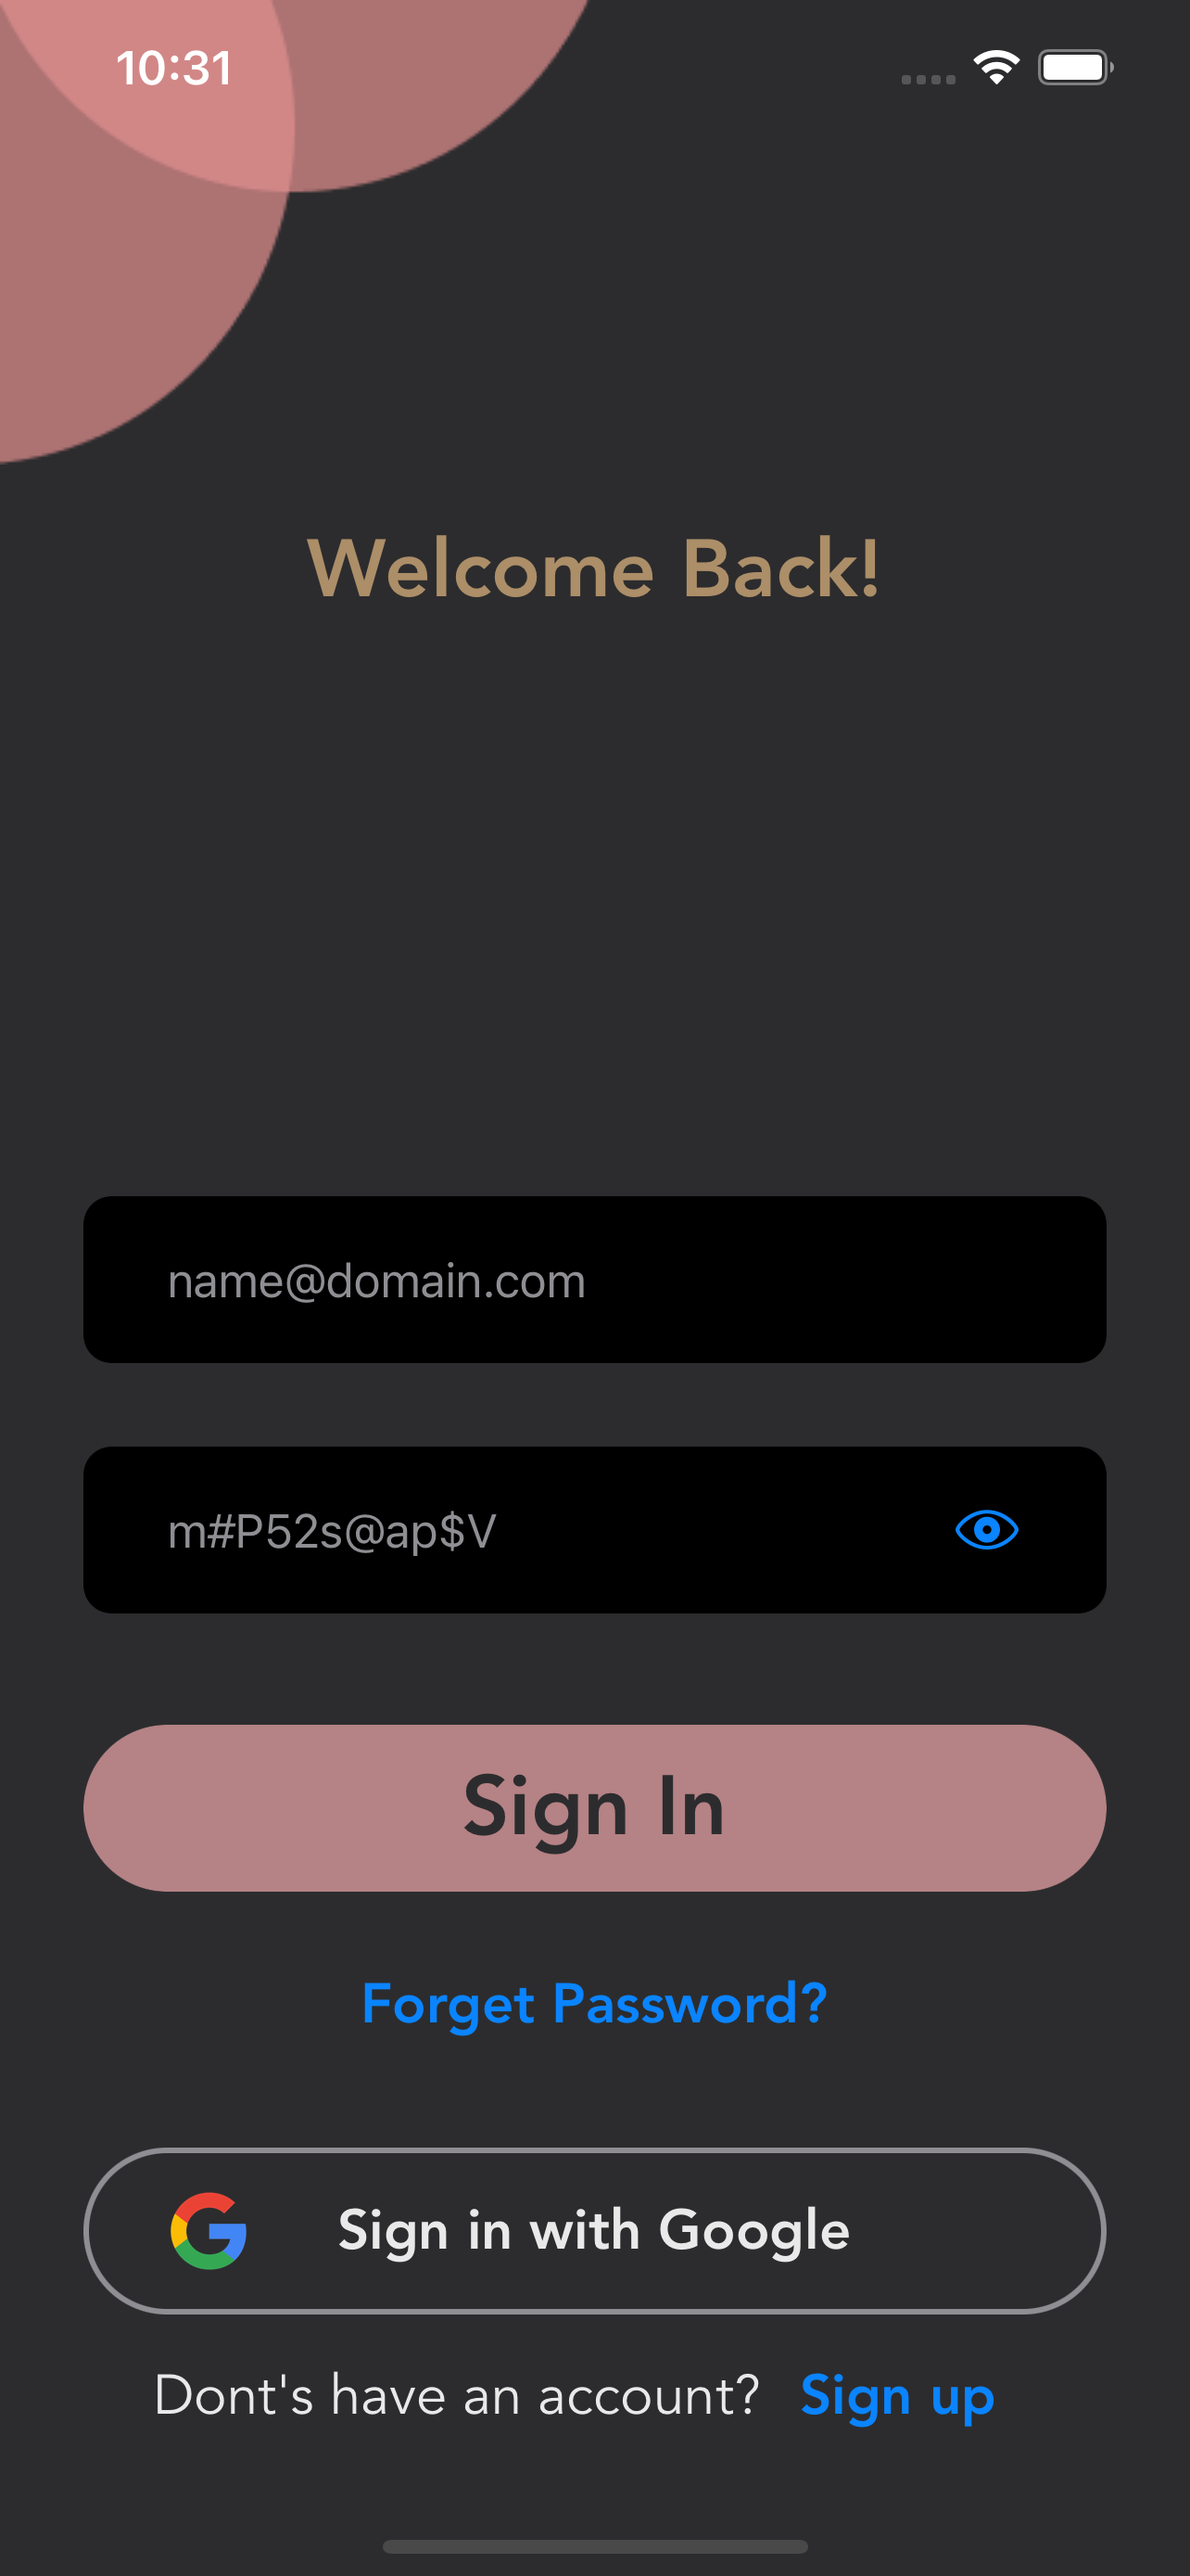
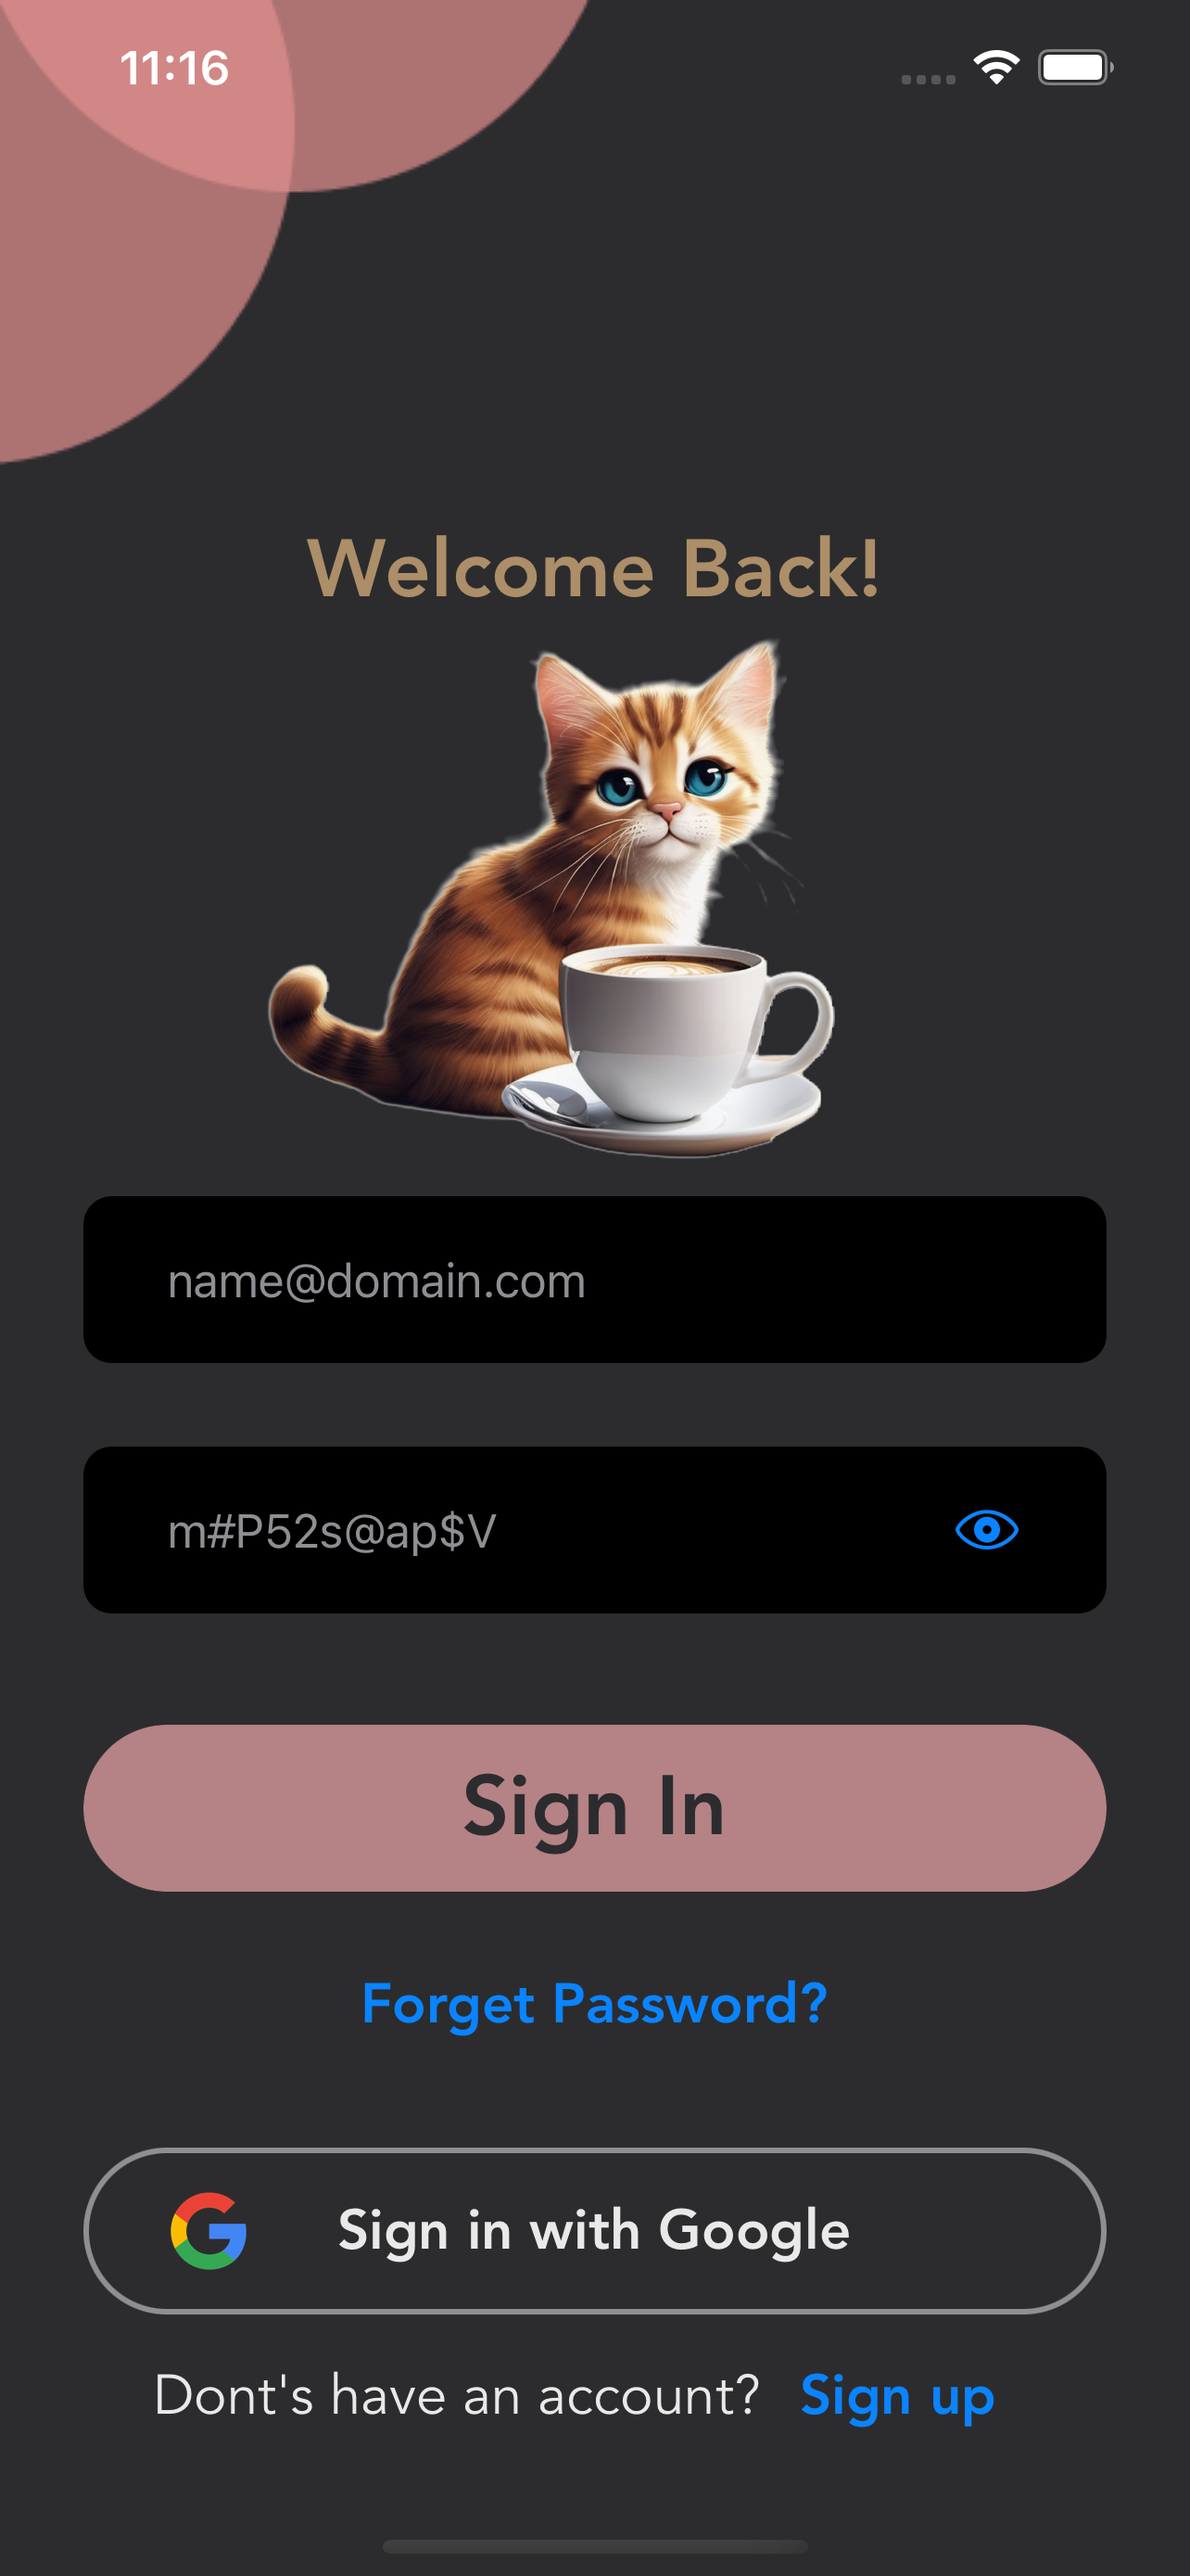
add cat to screen and update screen-shots

Changed region(s): [[0.2181, 0.2477, 0.7165, 0.4644], [0.0935, 0.0, 0.1869, 0.031]]

diff --git a/coffee cat/Views/SignInViewController.swift b/coffee cat/Views/SignInViewController.swift
@@ -13,6 +13,8 @@ class SignInViewController: UIViewController, UIFactory {
     // -MARK: Create UI Components
     lazy var welcomeLabel: UILabel = makeLabel()
     
+    lazy var coffeeCatImageView: UIImageView = makeSquareImageView(imageName: ImageNames.coffeeCat, size: 260)
+    
     lazy var emailTextFieldContainer: UIView = makeRoundedTextFieldContainer()
     lazy var emailTextField: UITextField = makeTextField(placeholder: SignInScreenText.emailTextFieldPlaceholder)
     
@@ -56,6 +58,9 @@ class SignInViewController: UIViewController, UIFactory {
         view.addSubview(welcomeLabel)
         configWelcomeLabel()
         
+        view.addSubview(coffeeCatImageView)
+        configCoffeeCatImageView()
+        
         view.addSubview(emailTextFieldContainer)
         configEmailTextFieldContainer()
         
@@ -78,17 +83,21 @@ class SignInViewController: UIViewController, UIFactory {
     func configAppearance() {
         view.backgroundColor = .systemGray5
         
-        removeSubviews()
+        removeCircleGroupImageView()
         checkAndChangeAppearancceMode()
     }
     
-    func removeSubviews() {
+    func removeCircleGroupImageView() {
         for subview in view.subviews {
-            if subview is UIImageView {
-                subview.removeFromSuperview()
+            if let imageView = subview as? UIImageView,
+               imageView.image == UIImage(named: ImageNames.darkCircleGroup) ||
+                imageView.image == UIImage(named: ImageNames.lightCircleGroup)
+            {
+                imageView.removeFromSuperview()
             }
         }
     }
+
     
     func checkAndChangeAppearancceMode() {
         if traitCollection.userInterfaceStyle == .dark {
@@ -113,6 +122,13 @@ class SignInViewController: UIViewController, UIFactory {
             welcomeLabel.topAnchor.constraint(equalTo: view.topAnchor, constant: view.bounds.height / 5),
             welcomeLabel.leadingAnchor.constraint(equalTo: view.leadingAnchor, constant: 30),
             welcomeLabel.trailingAnchor.constraint(equalTo: view.trailingAnchor, constant: -30),
+        ])
+    }
+    
+    func configCoffeeCatImageView() {
+        NSLayoutConstraint.activate([
+            coffeeCatImageView.topAnchor.constraint(equalTo: view.topAnchor, constant: 200),
+            coffeeCatImageView.centerXAnchor.constraint(equalTo: view.centerXAnchor)
         ])
     }
     

diff --git a/coffee cat/Constants/NameConstants.swift b/coffee cat/Constants/NameConstants.swift
@@ -16,6 +16,7 @@ enum ImageNames {
     static let googleLogo = "google-logo"
     static let lightCircleGroup = "light-circle-group"
     static let darkCircleGroup = "dark-circle-group"
+    static let coffeeCat = "coffee-cat"
 }
 
 enum FontNames {
